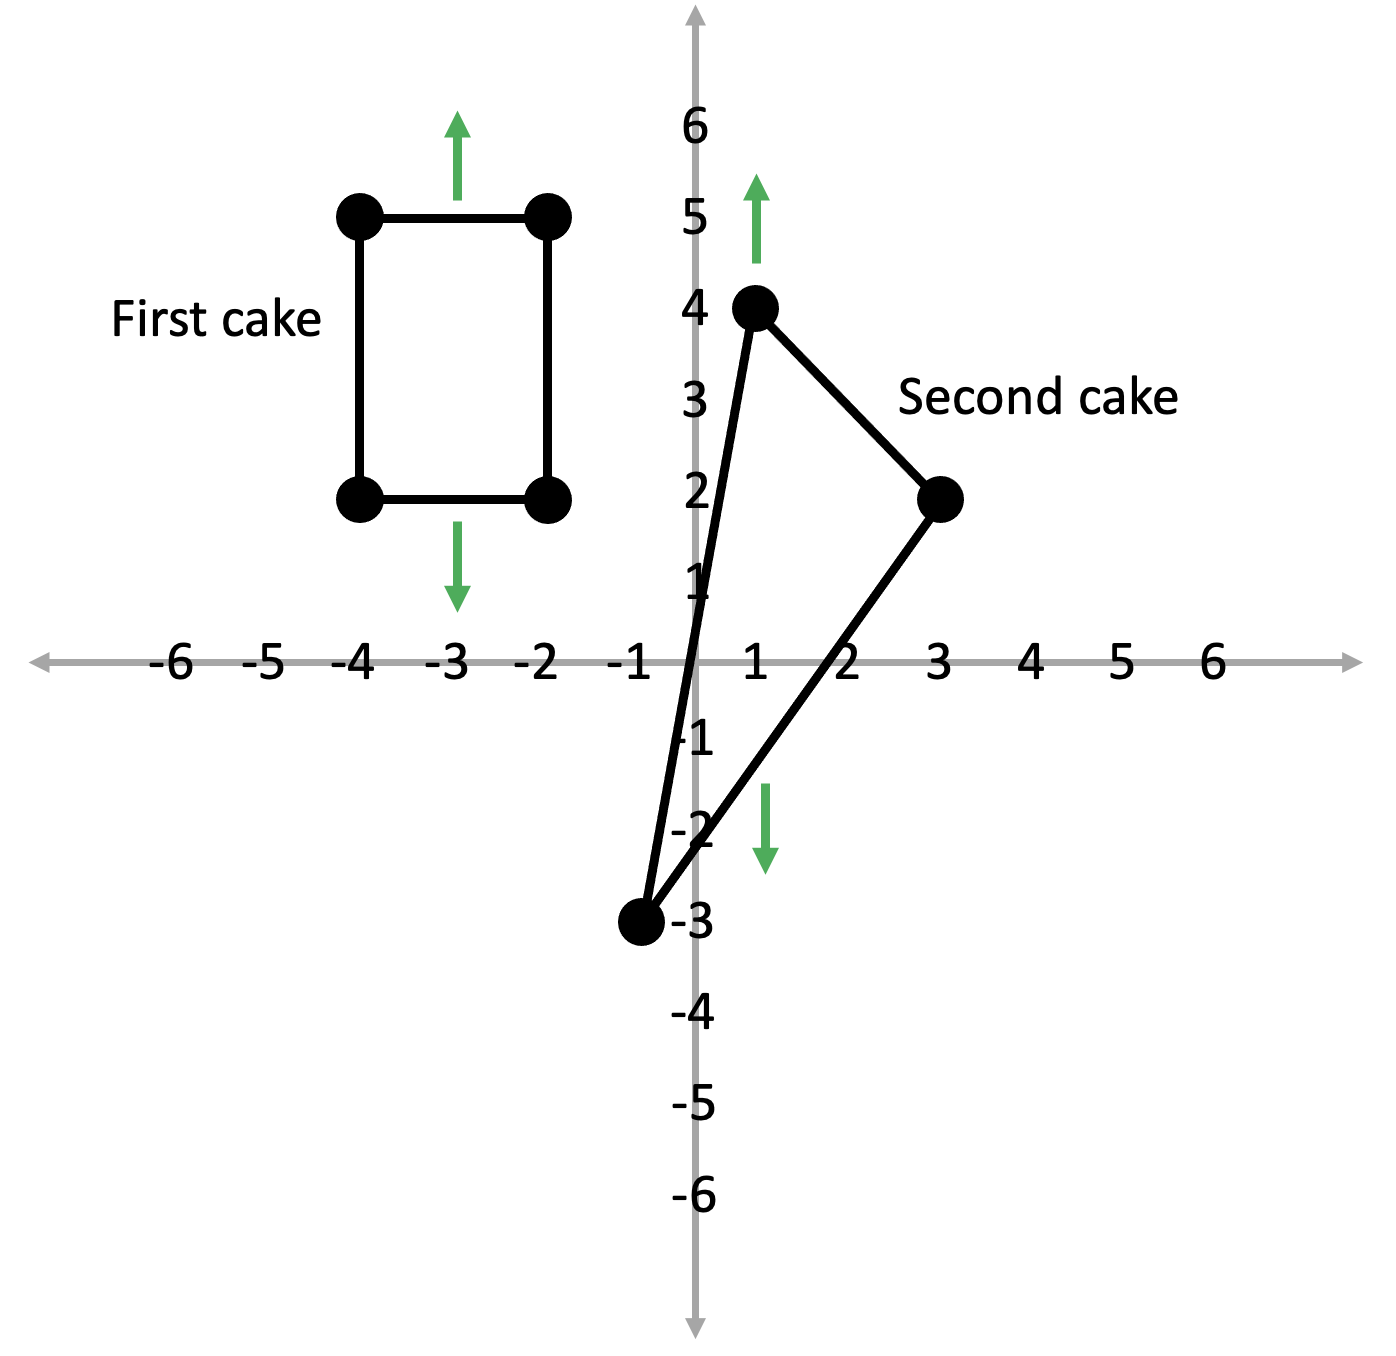
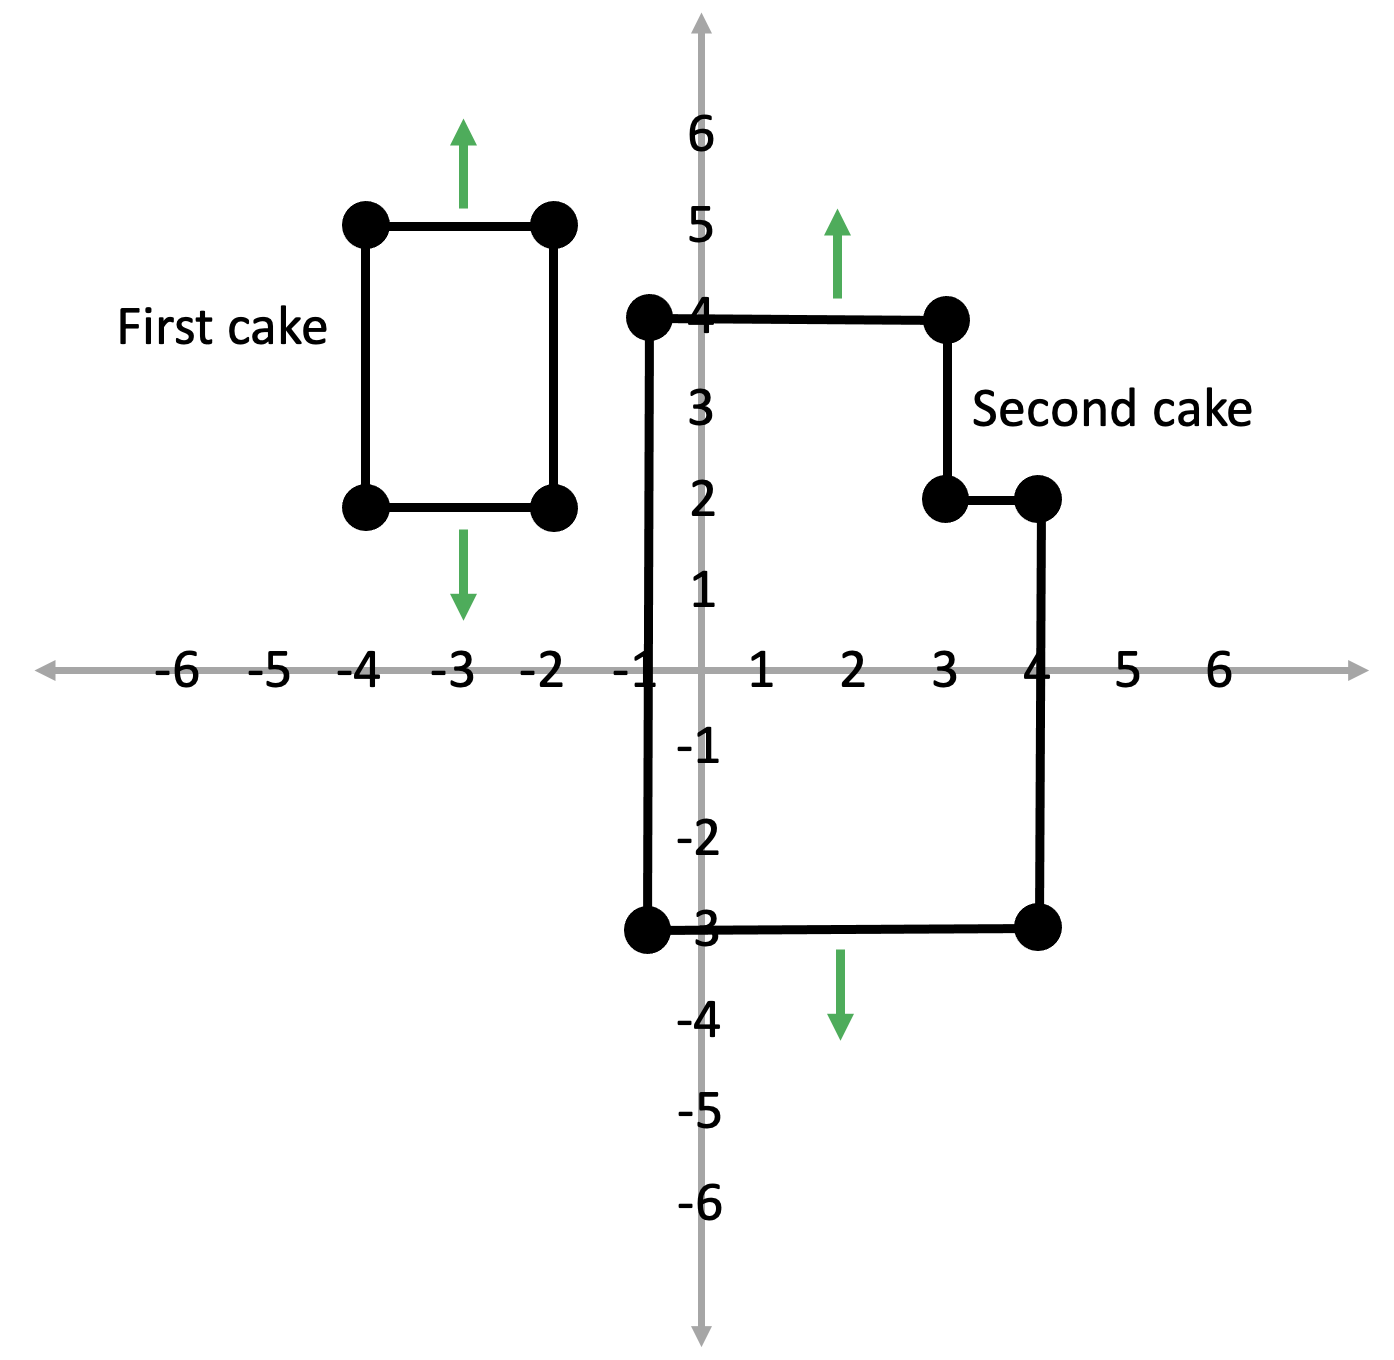
oops forgot the whole axis-aligned thing

Changed region(s): [[0.0308, 0.0, 0.9871, 0.9912], [0.6169, 0.3097, 0.6478, 0.3407], [0.5861, 0.2788, 0.6169, 0.3097]]

diff --git a/5-caketransport/readme.md b/5-caketransport/readme.md
@@ -4,7 +4,7 @@ Cake Transport
 
 ## Problem Statement
 
-Alex, the world-renowned cake shef, has baked two giant cakes and placed them on a very long table, which can be thought of as a 2D plane. Each cake can be represented by an axis-aligned polygon on that table. You are guaranteed that the two cakes are disjoint, and that they do not intersect themselves. Alex has baked these cakes for two customers, sitting at the top and bottom of the table. One cake will be sent up to the top of the table, the other will be sent down to the bottom of the table. However, Alex does not know which cake will go up and which will go down, and so wants to make sure that it is possible to get the cakes to the customers in both scenarios.
+Alex, the world-renowned cake chef, has baked two giant cakes and placed them on a very long table, which can be thought of as a 2D plane. Each cake can be represented by an axis-aligned polygon on that table. You are guaranteed that the two cakes are disjoint, and that they do not intersect themselves. Alex has baked these cakes for two customers, sitting at the top and bottom of the table. One cake will be sent up to the top of the table, the other will be sent down to the bottom of the table. However, Alex does not know which cake will go up and which will go down, and so wants to make sure that it is possible to get the cakes to the customers in both scenarios.
 
 Determine for Alex if the cakes can slide freely up and down without collision. It counts as a collision even if the cakes will touch at a single point.
 
